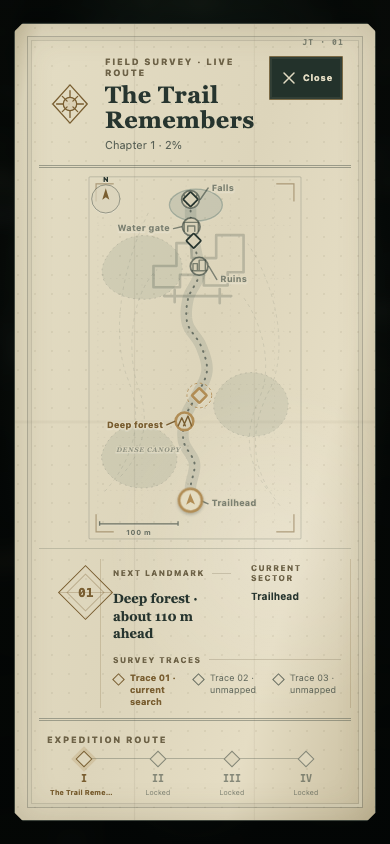
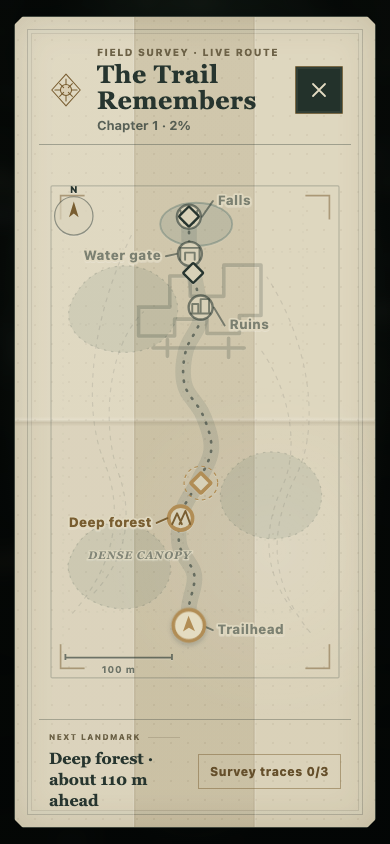
refine: simplify and deepen folded field map

diff --git a/src/ui.css b/src/ui.css
@@ -14,6 +14,7 @@
 
 * { box-sizing: border-box; }
 [hidden] { display: none !important; }
+.jt-visually-hidden { position: absolute !important; width: 1px; height: 1px; padding: 0; margin: -1px; overflow: hidden; clip: rect(0 0 0 0); white-space: nowrap; border: 0; }
 button { font: inherit; -webkit-tap-highlight-color: transparent; touch-action: manipulation; }
 #view { position: absolute; inset: 0; display: block; width: 100%; height: 100%; opacity: .01; transition: opacity 900ms var(--jt-ease); }
 #shell.is-scene-ready #view { opacity: 1; }
@@ -156,29 +157,31 @@ button { font: inherit; -webkit-tap-highlight-color: transparent; touch-action: 
 .jt-map__backdrop { position: absolute; inset: 0; background: radial-gradient(ellipse at 50% 42%, rgba(22,37,29,.88), rgba(2,5,4,.94) 72%); backdrop-filter: blur(8px) saturate(.7); animation: jt-map-fade 220ms var(--jt-ease); }
 .jt-map__sheet { position: relative; isolation: isolate; width: min(100%, 680px); max-height: 100%; overflow-x: hidden; overflow-y: auto; padding: 22px 24px 18px; border: 1px solid rgba(19,29,25,.78); background:
   radial-gradient(circle at 18% 21%, rgba(75,64,36,.07) 0 1px, transparent 1.4px) 0 0/17px 19px,
-  radial-gradient(circle at 72% 66%, rgba(255,255,255,.16), transparent 28%),
-  linear-gradient(105deg, #cfc6a8 0, #e3dcc3 5%, #ddd5bb 48%, #e5ddc4 74%, #c8bd9e 100%);
+  radial-gradient(circle at 72% 66%, rgba(255,255,255,.13), transparent 28%),
+  #d9d0b4;
   box-shadow: 0 32px 90px rgba(0,0,0,.68), 0 0 0 5px #17231d, 0 0 0 7px rgba(177,141,85,.38), inset 0 0 38px rgba(80,64,32,.2);
   clip-path: polygon(0 9px, 9px 0, calc(100% - 9px) 0, 100% 9px, 100% calc(100% - 9px), calc(100% - 9px) 100%, 9px 100%, 0 calc(100% - 9px));
   animation: jt-map-open 220ms var(--jt-ease);
 }
-.jt-map__sheet::before { content: ""; position: absolute; z-index: 1; inset: 0; background: linear-gradient(90deg, transparent 32.9%, rgba(67,54,31,.075) 33.2%, transparent 33.5%, transparent 66.2%, rgba(67,54,31,.065) 66.5%, transparent 66.8%), linear-gradient(transparent 49.7%, rgba(67,54,31,.055) 50%, transparent 50.3%); pointer-events: none; }
+.jt-map__sheet::before { content: ""; position: absolute; z-index: 1; inset: 0; background:
+  linear-gradient(180deg, rgba(255,255,255,.035) 0 49.35%, rgba(255,255,255,.17) 49.7%, rgba(66,49,25,.12) 50.05%, rgba(66,49,25,.025) 50.55% 100%),
+  linear-gradient(90deg, rgba(255,255,255,.16) 0 32.65%, rgba(255,255,255,.28) 32.9%, rgba(69,51,25,.16) 33.25%, rgba(69,51,25,.075) 33.65% 66.05%, rgba(69,51,25,.16) 66.4%, rgba(255,255,255,.25) 66.72%, rgba(255,255,255,.11) 67.05% 100%);
+  pointer-events: none;
+}
 .jt-map__sheet::after { content: ""; position: absolute; z-index: 0; inset: 12px; border: 1px solid rgba(42,52,45,.26); box-shadow: inset 0 0 0 3px rgba(216,209,184,.7), inset 0 0 0 4px rgba(42,52,45,.14); pointer-events: none; }
 .jt-map__cover { display: none; }
-.jt-map__folio { position: absolute; z-index: 3; right: 31px; top: 15px; color: rgba(39,53,47,.54); font: 700 8px/1 ui-monospace, SFMono-Regular, Menlo, monospace; letter-spacing: .14em; }
-.jt-map__header { position: relative; z-index: 2; display: flex; align-items: flex-start; justify-content: space-between; gap: 16px; min-height: 78px; padding: 10px 8px 14px; border-bottom: 3px double rgba(39,53,47,.38); }
+.jt-map__header { position: relative; z-index: 2; display: flex; align-items: center; justify-content: space-between; gap: 14px; min-height: 68px; padding: 7px 8px 11px; border-bottom: 1px solid rgba(39,53,47,.34); }
 .jt-map__title-block { display: flex; align-items: center; gap: 12px; min-width: 0; }
-.jt-map__crest { flex: 0 0 auto; width: 46px; height: 46px; color: #795e31; }
+.jt-map__crest { flex: 0 0 auto; width: 38px; height: 38px; color: #795e31; }
 .jt-map__crest svg { width: 100%; height: 100%; fill: none; stroke: currentColor; stroke-width: 1.35; stroke-linecap: round; stroke-linejoin: round; }
 .jt-map__crest circle { fill: rgba(177,141,85,.13); }
-.jt-map__eyebrow,.jt-map__footer-label { margin: 0 0 5px; color: #6d6247; font-size: 9px; font-weight: 800; letter-spacing: .18em; text-transform: uppercase; }
-.jt-map h2 { margin: 0; color: var(--jt-paper-ink); font-family: Georgia, "Songti SC", "Noto Serif CJK SC", serif; font-size: clamp(21px,6vw,30px); font-weight: 650; line-height: 1.08; letter-spacing: .02em; }
-.jt-map__subtitle { margin: 5px 0 0; color: rgba(39,53,47,.72); font-size: 11px; }
-.jt-map__close { flex: 0 0 auto; display: grid; grid-template-columns: 20px auto; align-items: center; gap: 4px; min-width: 68px; min-height: 44px; padding: 0 9px; color: #e2dbc2; border: 1px solid rgba(177,141,85,.62); border-radius: 1px; background: #23322b; box-shadow: inset 0 0 0 2px rgba(226,219,194,.08); }
-.jt-map__close svg { width: 20px; fill: none; stroke: currentColor; stroke-width: 1.8; stroke-linecap: round; }
-.jt-map__close span { font-size: 9px; font-weight: 750; letter-spacing: .08em; }
-.jt-map__survey { position: relative; z-index: 2; display: block; border-bottom: 3px double rgba(39,53,47,.36); }
-.jt-map__route { display: block; width: 100%; height: min(45vh,390px); min-height: 280px; filter: drop-shadow(0 1px rgba(255,255,255,.24)); }
+.jt-map__eyebrow { margin: 0 0 3px; color: #6d6247; font-size: 10px; font-weight: 800; letter-spacing: .14em; text-transform: uppercase; }
+.jt-map h2 { margin: 0; color: var(--jt-paper-ink); font-family: Georgia, "Songti SC", "Noto Serif CJK SC", serif; font-size: clamp(24px,6.4vw,32px); font-weight: 650; line-height: 1.05; letter-spacing: .02em; }
+.jt-map__subtitle { margin: 4px 0 0; color: rgba(39,53,47,.72); font-size: 13px; font-weight: 650; }
+.jt-map__close { flex: 0 0 auto; display: grid; place-items: center; width: 48px; min-width: 48px; height: 48px; padding: 0; color: #e2dbc2; border: 1px solid rgba(177,141,85,.62); border-radius: 1px; background: #23322b; box-shadow: inset 0 0 0 2px rgba(226,219,194,.08); }
+.jt-map__close svg { width: 24px; fill: none; stroke: currentColor; stroke-width: 1.8; stroke-linecap: round; }
+.jt-map__survey { position: relative; z-index: 2; display: block; }
+.jt-map__route { display: block; width: 100%; height: min(68dvh,590px); min-height: 330px; filter: drop-shadow(0 1px rgba(255,255,255,.24)); }
 .jt-map__page-frame { fill: none; stroke: rgba(39,53,47,.23); stroke-width: 1; }
 .jt-map__corner-mark { fill: none; stroke: rgba(121,94,49,.52); stroke-width: 1.4; }
 .jt-map__grid path,.jt-map__ridge,.jt-map__ruins path,.jt-map__route-corridor,.jt-map__route-base,.jt-map__route-progress { fill: none; stroke-linecap: round; stroke-linejoin: round; }
@@ -200,56 +203,23 @@ button { font: inherit; -webkit-tap-highlight-color: transparent; touch-action: 
 .jt-map__landmark.is-next { color: #795e31; }
 .jt-map__landmark.is-next circle { stroke: var(--jt-brass); stroke-width: 3; }
 .jt-map__landmark.is-current circle { fill: var(--jt-paper); stroke: var(--jt-brass); stroke-width: 3; }
-.jt-map__landmark-label { fill: currentColor; font-size: 10px; font-weight: 780; letter-spacing: .025em; paint-order: stroke; stroke: rgba(224,217,192,.94); stroke-width: 3px; stroke-linejoin: round; }
+.jt-map__landmark-label { fill: currentColor; font-size: 11px; font-weight: 780; letter-spacing: .025em; paint-order: stroke; stroke: rgba(224,217,192,.94); stroke-width: 3px; stroke-linejoin: round; }
 .jt-map__evidence { fill: var(--jt-paper); stroke: var(--jt-paper-ink); stroke-width: 2; }
 .jt-map__evidence.is-current { fill: var(--jt-paper); stroke: var(--jt-brass); stroke-width: 3; }
 .jt-map__evidence.is-recorded { fill: var(--jt-patina); stroke: var(--jt-paper-ink); }
 .jt-map__evidence-ring { fill: none; stroke: var(--jt-brass); stroke-width: 1; stroke-dasharray: 3 3; }
-.jt-map__feature-label { fill: rgba(39,53,47,.43); font-family: Georgia, "Songti SC", serif; font-size: 7.5px; font-weight: 700; font-style: italic; letter-spacing: .1em; paint-order: stroke; stroke: rgba(224,217,192,.8); stroke-width: 2px; }
+.jt-map__feature-label { fill: rgba(39,53,47,.5); font-family: Georgia, "Songti SC", serif; font-size: 9px; font-weight: 700; font-style: italic; letter-spacing: .08em; paint-order: stroke; stroke: rgba(224,217,192,.8); stroke-width: 2px; }
 .jt-map__compass circle { fill: rgba(216,209,184,.72); stroke: rgba(39,53,47,.46); stroke-width: 1; }
 .jt-map__compass path { fill: #795e31; }
 .jt-map__compass text { fill: var(--jt-paper-ink); font-size: 8px; font-weight: 850; }
 .jt-map__scale path { fill: none; stroke: rgba(39,53,47,.62); stroke-width: 1.5; }
 .jt-map__scale text { fill: rgba(39,53,47,.62); font-size: 8px; font-weight: 750; letter-spacing: .06em; }
-.jt-map__legend { position: relative; display: grid; grid-template-columns: minmax(0,1.35fr) minmax(90px,.65fr); column-gap: 20px; min-width: 0; padding: 14px 10px 10px 74px; border-top: 1px solid rgba(39,53,47,.18); }
-.jt-map__legend::before,.jt-map__legend::after { content: ""; position: absolute; top: 10px; bottom: 10px; width: 1px; background: rgba(121,94,49,.22); }
-.jt-map__legend::before { left: 61px; }
-.jt-map__legend::after { right: 0; }
-.jt-map__legend-seal { position: absolute; top: 24px; left: 27px; display: grid; place-items: center; width: 39px; height: 39px; color: #795e31; border: 1px solid currentColor; transform: rotate(45deg); }
-.jt-map__legend-seal::before { content: ""; position: absolute; inset: 5px; border: 1px solid rgba(121,94,49,.36); }
-.jt-map__legend-seal span { font: 750 13px/1 ui-monospace, SFMono-Regular, Menlo, monospace; transform: rotate(-45deg); }
-.jt-map__legend-seal i { position: absolute; width: 53px; height: 1px; background: rgba(121,94,49,.28); transform: rotate(-45deg); }
+.jt-map__brief { position: relative; display: flex; align-items: center; justify-content: space-between; gap: 18px; min-width: 0; min-height: 70px; padding: 12px 10px 8px; border-top: 1px solid rgba(39,53,47,.3); }
+.jt-map__next { min-width: 0; }
 .jt-map__legend-title { display: flex; align-items: center; gap: 7px; margin: 0 0 7px; color: #6d6247; font-size: 8px; font-weight: 800; letter-spacing: .16em; text-transform: uppercase; }
 .jt-map__legend-title::after { content: ""; flex: 1; height: 1px; background: rgba(109,98,71,.24); }
-.jt-map__objective { grid-column: 1; margin: 0 0 12px; font-family: Georgia, "Songti SC", serif; font-size: 13px; font-weight: 650; line-height: 1.35; }
-.jt-map__sector { grid-column: 2; grid-row: 2; margin: 0 0 12px; color: var(--jt-paper-ink); font-size: 10px; font-weight: 720; line-height: 1.35; }
-#map-objective-label { grid-column: 1; grid-row: 1; }
-#map-objective { grid-column: 1; grid-row: 2; }
-#map-sector-label { grid-column: 2; grid-row: 1; }
-#map-sector { grid-column: 2; grid-row: 2; }
-#map-traces-label { grid-column: 1 / -1; grid-row: 3; }
-.jt-map__evidence-list { grid-column: 1 / -1; display: grid; grid-template-columns: repeat(3,minmax(0,1fr)); gap: 8px 12px; margin: 0; padding: 0; list-style: none; }
-.jt-map__evidence-list li { position: relative; padding-left: 17px; color: rgba(39,53,47,.66); font-size: 9px; line-height: 1.35; }
-.jt-map__evidence-list li::before { content: ""; position: absolute; left: 1px; top: 3px; width: 7px; height: 7px; border: 1px solid currentColor; transform: rotate(45deg); }
-.jt-map__evidence-list li.is-current { color: #795e31; font-weight: 750; }
-.jt-map__evidence-list li.is-recorded { color: var(--jt-paper-ink); }
-.jt-map__evidence-list li.is-recorded::before { background: var(--jt-patina); }
-.jt-map__footer { position: relative; z-index: 2; padding: 13px 8px 1px; }
-.jt-map__chapters { display: grid; grid-template-columns: repeat(4,1fr); gap: 0; margin: 0; padding: 0; list-style: none; }
-.jt-map__chapters li { position: relative; min-width: 0; padding-top: 17px; color: rgba(39,53,47,.5); text-align: center; }
-.jt-map__chapters li::before { content: ""; position: absolute; z-index: 1; top: 3px; left: 50%; width: 10px; height: 10px; border: 1.5px solid currentColor; background: #ded6bc; transform: translateX(-50%) rotate(45deg); }
-.jt-map__chapters li::after { content: ""; position: absolute; top: 8px; right: 50%; width: 100%; height: 1px; background: rgba(39,53,47,.28); }
-.jt-map__chapters li:first-child::after { display: none; }
-.jt-map__chapters li.is-unlocked { color: var(--jt-paper-ink); }
-.jt-map__chapters li.is-current { color: #795e31; font-weight: 750; }
-.jt-map__chapters li.is-current::before { box-shadow: 0 0 0 3px rgba(177,141,85,.24); }
-.jt-map__chapters li.is-complete::before { background: var(--jt-patina); }
-.jt-map__chapters button { width: 100%; min-height: 34px; padding: 0 3px; color: inherit; border: 0; background: transparent; }
-.jt-map__chapters button:focus-visible { outline: 2px solid var(--jt-patina); outline-offset: 2px; }
-.jt-map__chapters button:disabled { opacity: 1; }
-.jt-map__chapters b,.jt-map__chapters span { display: block; overflow: hidden; text-overflow: ellipsis; white-space: nowrap; }
-.jt-map__chapters b { font: 700 10px/1.2 ui-monospace, SFMono-Regular, Menlo, monospace; }
-.jt-map__chapters span { margin-top: 3px; font-size: 7px; }
+.jt-map__objective { margin: 0; font-family: Georgia, "Songti SC", serif; font-size: 16px; font-weight: 650; line-height: 1.3; }
+.jt-map__trace-count { flex: 0 0 auto; margin: 0; padding: 9px 11px; color: #66502c; border: 1px solid rgba(121,94,49,.48); font-size: 12px; font-weight: 800; letter-spacing: .05em; white-space: nowrap; }
 
 .jt-panel { position: fixed; inset: 0; z-index: 25; display: grid; place-items: end center; padding: 24px 18px max(24px, env(safe-area-inset-bottom)); background: rgba(4,7,5,.35); backdrop-filter: blur(5px); }
 .jt-panel__content { width: min(100%, 420px); padding: 24px; border: 1px solid var(--jt-line); border-radius: 8px; background: var(--jt-surface); box-shadow: 0 22px 70px rgba(0,0,0,.4); }
@@ -303,22 +273,18 @@ button { font: inherit; -webkit-tap-highlight-color: transparent; touch-action: 
   #sleeping.is-ready .jt-sleeping__status { margin-top: 10px; }
   .jt-map { padding: max(6px, env(safe-area-inset-top)) 6px max(6px, env(safe-area-inset-bottom)); }
   .jt-map__sheet { padding: 12px; }
-  .jt-map__header { min-height: 62px; padding: 5px 3px 8px; }
+  .jt-map__header { min-height: 58px; padding: 4px 3px 7px; }
   .jt-map__title-block { gap: 7px; }
-  .jt-map__crest { width: 35px; height: 35px; }
-  .jt-map__folio { display: none; }
-  .jt-map__subtitle { display: none; }
-  .jt-map__route { height: min(43vh,285px); min-height: 244px; }
-  .jt-map__legend { column-gap: 10px; padding: 9px 3px 6px 52px; }
-  .jt-map__legend::before { left: 45px; }
-  .jt-map__legend-seal { top: 20px; left: 17px; width: 32px; height: 32px; }
-  .jt-map__legend-seal i { width: 42px; }
-  .jt-map__objective { margin-bottom: 8px; font-size: 10px; }
-  .jt-map__sector { margin-bottom: 8px; font-size: 9px; }
-  .jt-map__evidence-list { gap: 5px 7px; }
-  .jt-map__evidence-list li { padding-left: 13px; font-size: 7px; }
-  .jt-map__evidence-list li::before { width: 6px; height: 6px; }
-  .jt-map__footer { padding-top: 8px; }
+  .jt-map__crest { width: 32px; height: 32px; }
+  .jt-map h2 { font-size: 22px; }
+  .jt-map__eyebrow { font-size: 8px; }
+  .jt-map__subtitle { font-size: 11px; }
+  .jt-map__close { width: 44px; min-width: 44px; height: 44px; }
+  .jt-map__route { height: min(66dvh,385px); min-height: 310px; }
+  .jt-map__brief { min-height: 62px; gap: 8px; padding: 9px 4px 5px; }
+  .jt-map__legend-title { margin-bottom: 4px; font-size: 8px; }
+  .jt-map__objective { font-size: 15px; }
+  .jt-map__trace-count { padding: 8px 7px; font-size: 11px; }
 }
 @media (prefers-reduced-motion: reduce) {
   *,*::before,*::after { animation-duration: .01ms !important; animation-iteration-count: 1 !important; scroll-behavior: auto !important; }

diff --git a/src/main.js b/src/main.js
@@ -27,14 +27,10 @@ const ui = {
   mapCloseLabel: $('map-close-label'), mapRoute: $('map-route-base'),
   mapRouteCorridor: $('map-route-corridor'), mapRouteProgress: $('map-route-progress'), mapPlayer: $('map-player'),
   mapScaleLine: $('map-scale-line'), mapScaleLabel: $('map-scale-label'),
-  mapFolioNumber: $('map-folio-number'), mapSealNumber: $('map-seal-number'),
   mapEvidenceNodes: $('map-evidence-nodes'), mapLandmarkNodes: $('map-landmark-nodes'),
   mapCanopyLabel: $('map-canopy-label'),
   mapObjectiveLabel: $('map-objective-label'),
-  mapObjective: $('map-objective'), mapEvidenceList: $('map-evidence-list'),
-  mapSectorLabel: $('map-sector-label'), mapSector: $('map-sector'),
-  mapTracesLabel: $('map-traces-label'),
-  mapExpeditionLabel: $('map-expedition-label'), mapChapters: $('map-chapters'),
+  mapObjective: $('map-objective'), mapTraceCount: $('map-trace-count'),
   pausePanel: $('pause-panel'), pauseTitle: $('pause-title'), resume: $('resume-button'), trail: $('trail-button'),
   mode: $('mode-button'),
   complete: $('complete-panel'), completeTitle: $('complete-title'), completeTime: $('complete-time'),
@@ -73,9 +69,6 @@ ui.mapEyebrow.textContent = t('fieldMap');
 ui.mapCloseLabel.textContent = t('close');
 ui.mapClose.setAttribute('aria-label', t('closeMap'));
 ui.mapObjectiveLabel.textContent = t('currentObjective');
-ui.mapSectorLabel.textContent = t('currentSector');
-ui.mapTracesLabel.textContent = t('surveyTraces');
-ui.mapExpeditionLabel.textContent = t('expeditionRoute');
 ui.mapCanopyLabel.textContent = t('mapCanopy');
 ui.mapRoute.closest('svg').setAttribute('aria-label', t('mapAria'));
 const progressStore = new ProgressStore();
@@ -299,7 +292,6 @@ function renderLandmarks(trailT) {
 
   const distance = Math.max(0, Math.round((LANDMARK_T[next] - trailT) * game.trail.length / 5) * 5);
   ui.mapObjective.textContent = `${fullNames[next]} · ${t(distance > 0 ? 'distanceRemaining' : 'destinationReached', { n: distance })}`;
-  ui.mapSector.textContent = fullNames[current];
 }
 
 function renderMap() {
@@ -321,12 +313,10 @@ function renderMap() {
   ui.mapRouteProgress.style.strokeDasharray = `${(routeLength * relative).toFixed(2)} ${routeLength.toFixed(2)}`;
   ui.mapTitle.textContent = t(chapter.titleKey);
   ui.mapSubtitle.textContent = `${t('chapterLabel', { n: chapter.number })} · ${Math.round(trailT * 100)}%`;
-  ui.mapFolioNumber.textContent = String(chapter.number);
-  ui.mapSealNumber.textContent = String(chapter.number).padStart(2, '0');
   renderLandmarks(trailT);
 
   ui.mapEvidenceNodes.replaceChildren();
-  ui.mapEvidenceList.replaceChildren(...investigation.trackers.map((tracker, index) => {
+  investigation.trackers.forEach((tracker, index) => {
     const point = evidenceMapPoint(tracker.contract, index);
     const diamond = svgNode('rect');
     const isCurrent = index === investigation.activeIndex;
@@ -347,33 +337,9 @@ function renderMap() {
     }
     ui.mapEvidenceNodes.append(diamond);
 
-    const item = document.createElement('li');
-    item.className = tracker.recorded ? 'is-recorded' : isCurrent ? 'is-current' : '';
-    item.textContent = t('mapTrace', {
-      n: String(index + 1).padStart(2, '0'),
-      status: t(tracker.recorded ? 'traceRecorded' : isCurrent ? 'traceCurrent' : 'traceUnknown'),
-    });
-    return item;
-  }));
-
-  ui.mapChapters.replaceChildren(...CHAPTERS.map((item) => {
-    const unlocked = unlockAll || progressStore.value.unlocked.includes(item.id);
-    const chapterComplete = !!progressStore.value.completed[item.id];
-    const li = document.createElement('li');
-    li.className = [unlocked && 'is-unlocked', item.id === chapter.id && 'is-current', chapterComplete && 'is-complete'].filter(Boolean).join(' ');
-    const button = document.createElement('button');
-    button.type = 'button';
-    button.disabled = !unlocked || item.id === chapter.id;
-    button.innerHTML = `<b>${['I', 'II', 'III', 'IV'][item.number - 1]}</b><span>${unlocked ? t(item.titleKey) : t('locked')}</span>`;
-    button.setAttribute('aria-label', `${t('chapterLabel', { n: item.number })} · ${unlocked ? t(item.titleKey) : t('locked')}`);
-    if (unlocked && item.id !== chapter.id) button.addEventListener('click', () => {
-      const url = new URL(location.href);
-      url.searchParams.set('chapter', item.id);
-      location.assign(url);
-    });
-    li.append(button);
-    return li;
-  }));
+  });
+  const recorded = investigation.trackers.filter((tracker) => tracker.recorded).length;
+  ui.mapTraceCount.textContent = `${t('surveyTraces')} ${recorded}/${investigation.trackers.length}`;
 }
 
 function openMap() {

diff --git a/index.html b/index.html
@@ -204,7 +204,6 @@
     <div id="map-backdrop" class="jt-map__backdrop" aria-hidden="true"></div>
     <article class="jt-map__sheet">
       <span class="jt-map__cover" aria-hidden="true"></span>
-      <span class="jt-map__folio" aria-hidden="true">JT · 0<span id="map-folio-number">1</span></span>
       <header class="jt-map__header">
         <div class="jt-map__title-block">
           <span class="jt-map__crest" aria-hidden="true">
@@ -218,7 +217,7 @@
         </div>
         <button id="map-close" class="jt-map__close" type="button">
           <svg viewBox="0 0 24 24" aria-hidden="true"><path d="m6 6 12 12M18 6 6 18"/></svg>
-          <span id="map-close-label"></span>
+          <span id="map-close-label" class="jt-visually-hidden"></span>
         </button>
       </header>
       <div class="jt-map__survey">
@@ -244,20 +243,14 @@
           <g class="jt-map__scale" transform="translate(22 405)" aria-hidden="true"><path id="map-scale-line" d="M0 0v-5m0 3h58m0-3v5"/><text id="map-scale-label" x="29" y="11" text-anchor="middle">100 m</text></g>
           <text id="map-canopy-label" class="jt-map__feature-label" x="41" y="321"></text>
         </svg>
-        <aside class="jt-map__legend">
-          <div class="jt-map__legend-seal" aria-hidden="true"><span id="map-seal-number">01</span><i></i></div>
+        <aside class="jt-map__brief">
+          <div class="jt-map__next">
           <p id="map-objective-label" class="jt-map__legend-title"></p>
           <p id="map-objective" class="jt-map__objective"></p>
-          <p id="map-sector-label" class="jt-map__legend-title"></p>
-          <p id="map-sector" class="jt-map__sector"></p>
-          <p id="map-traces-label" class="jt-map__legend-title"></p>
-          <ul id="map-evidence-list" class="jt-map__evidence-list"></ul>
+          </div>
+          <p id="map-trace-count" class="jt-map__trace-count"></p>
         </aside>
       </div>
-      <footer class="jt-map__footer">
-        <p id="map-expedition-label" class="jt-map__footer-label"></p>
-        <ol id="map-chapters" class="jt-map__chapters"></ol>
-      </footer>
     </article>
   </section>
 

diff --git a/doc/visual.md b/doc/visual.md
@@ -66,11 +66,11 @@
 - 所有按钮触控目标至少 44×44 px；摇杆外环 112 px，内核 44 px，并增加 62% 步行/快走分界刻度。
 - 顶部调查牌：深墨绿半透明底、左侧章节徽记、右侧两行信息；第一行是地标名与路线百分比，第二行是细进度轨与线索 `n/3`。两端用直角括号和铜金小刻度建立仪器感。
 - 右上工具栏：地图、声音、暂停纵向排列在一条细框导轨内；激活状态使用氧化绿实心小标，不靠发光。
-- 地图面板：全屏深绿遮罩上展开一张暖灰野外测绘图；纸张只有均匀浅淡的三折压痕、纤维噪点、连续双线页框、自然切角与克制的植物学线描。路线占据主要绘图区，目标与线索整理在地图下方；保留铜色调查印章与页码，禁止中央书脊、上下中缝凹口、左右分页色差和任何暗示翻页的装饰。
+- 地图面板：全屏深绿遮罩上展开一张暖灰野外测绘图；路线绘图区占纸面约 `78–82%`，页头只保留章节标题、进度与关闭，页尾只保留一条下一地标说明和 `n/3` 线索计数。逐条线索文字、当前区域重复说明和 I–IV 章节轨全部移出地图。纸张由三块宽折面交替明暗，折线两侧有窄高光与投影，并叠加一条较弱的横折；纤维噪点、连续双线页框和自然切角继续保留。禁止中央书脊、上下中缝凹口、左右分页和任何暗示翻页的装饰。
 - 地图路线：由当前章节真实路径采样点按统一米制比例投影，保持真实弯道方向和横向位移；玩家与证据使用真实世界坐标。路线不为了填满纸页而改成装饰性 S 曲线。玩家是可旋转的铜金方向针，线索是菱形测绘钉，已记录填充、未发现空心、当前目标带双圈。
 - 地图参照层：用低对比等高线、林冠簇、石灰遗迹平面与蓝灰终点水池建立地貌；用 5 个带编号/图形的地标节点和场景同名标签建立“画面 ↔ 地图”对应。没有真实世界坐标的数据不画成具体水道；地貌低于路线，地标高于线索，玩家针最高。
-- 地图读数：左上角北针、下方 `0–100 m` 比例尺、当前分区、下一地标与约剩余距离。北向固定为世界 `-Z`；比例尺与路线使用同一投影比例。朝向针根据玩家真实视角旋转，不伪装成 GPS 定位精度。
-- 地图下方列出当前目标和章节总览；章节使用 I–IV 节点串联，锁定、可进入和完成同时以线型与文字表达。地图不显示精准 GPS 坐标，保留探索感。
+- 地图读数：左上角北针、下方 `0–100 m` 比例尺、下一地标与约剩余距离。北向固定为世界 `-Z`；比例尺与路线使用同一投影比例。朝向针根据玩家真实视角旋转，不伪装成 GPS 定位精度。
+- 地图下方只显示当前目标与线索总数；章节选择继续由入口的 I–IV 导航承担。地图不显示精准 GPS 坐标，保留探索感。
 - 信息层级：常驻 HUD 只回答“我在哪一章、走了多远、找到多少、工具在哪”；任务提示短暂出现；完整线索说明只在记录瞬间出现；地图承接详细路线信息。
 - 入口首帧完成后直接展示真实雨林，标题与细边框文字动作退居底部暗部；不使用视频播放三角或遮住道路的居中卡片。
 - 构建阶段按钮禁用并显示真实阶段；场景就绪后按钮文案保持“进入雨林”，状态提示改为“轻触，走进雨林”。
@@ -103,7 +103,7 @@
 - 用户参考一：提炼顶部地区状态牌、底部工具入口和低多边形场景之上的高对比信息层；不复制货币、战斗技能或沙漠色调。
 - 用户参考二：提炼直角括号、模块化工具槽与明确选中状态；不复制邀请、治疗或背包战斗逻辑。
 - 用户参考三：提炼折叠纸地图、节点路线、当前位置针和“发现目标”的旅程感；改造成单章实时测绘地图，不做静态关卡选择海报。
-- 用户参考四：第二张作为唯一结构参考，提炼单张折叠地图、路线主导、节点挂接和底部目标说明；第一张只保留细线页框与调查印章，不采用书本形态。地图在移动端保持完整绘图区，不复制宗教符号、技能树、车辆、人物、红黑配色或原游戏的具体纹样。
+- 用户参考四：第二张作为唯一结构参考，提炼单张折叠地图、路线主导、节点挂接、底部单条目标说明，以及由宽折面交替受光形成的纸张体积；第一张只保留细线页框，不采用书本形态。地图在移动端保持完整绘图区，不复制宗教符号、技能树、车辆、人物、红黑配色或原游戏的具体纹样。
 
 ## 10. Anti-patterns
 
@@ -124,7 +124,7 @@
 - 窄屏：320×568 无横向溢出，按钮至少 44×44，顶部与底部安全区不冲突。
 - 四章：每章在首次接近时先读到宏观地标，再读到中观方向，最后读到微观证据；不能依赖 UI 才理解目标区域。
 - 观察：390×844 与 320×568 均能看清“附近—对准—完成”三态；观察环不与幽灵手势、摇杆、跳跃和顶部操作重叠。
-- 地图：两种尺寸均显示由本章真实世界坐标投影的路线、玩家位置与朝向、3 条线索、5 个同名地标、地貌参照、下一地标距离和 I–IV 章节轨；装帧、文字和标签在 320×568 不互相遮挡，打开时世界暂停、关闭后原地继续。
+- 地图：两种尺寸均显示由本章真实世界坐标投影的路线、玩家位置与朝向、3 条线索节点、5 个同名地标、地貌参照、下一地标距离和线索总数；装帧、文字和标签在 320×568 不互相遮挡，打开时世界暂停、关闭后原地继续。
 - 章节选择：320×568 可同时看到全部 4 个编号槽，锁定和当前状态清晰；列表项使用点击而不是触碰触发。
 - 调查模式：随机目标、提示强度和结算记录在两种语言下不溢出，熟练调查不改变场景艺术方向。
 - 性能：每次只存在一个章节 WebGL 世界；low 档无新增全屏 pass，第二章倒影不触发完整镜面重渲染。
@@ -166,7 +166,7 @@
 ### Map
 
 - 玩家问题：我走到哪里、下一条证据大致在哪、整段调查还剩多少？
-- 打开后暂停场景、音频和观察计时；折叠纸路线显示实时玩家针、3 条线索状态、5 个真实地标、林冠/遗迹/终点水池、下一地标距离和四章解锁轨。
+- 打开后暂停场景、音频和观察计时；折叠纸路线显示实时玩家针、3 条线索节点、5 个真实地标、林冠/遗迹/终点水池、下一地标距离和线索总数；章节解锁状态留在入口导航。
 - 地图不显示精确米数或导航箭头；关闭按钮、遮罩、M 与 Escape 均可返回探索，位置和视角保持不变。
 
 ### Chapter select

diff --git a/_qa/ui/REPORT.md b/_qa/ui/REPORT.md
@@ -8,8 +8,8 @@
 | Entry frozen | `platform-layout-entry-frozen-390x844.png` | `platform-layout-entry-frozen-reduced-motion-320x568.png` | Pass; `running=false`, clear final frame |
 | Gameplay handoff | `platform-layout-gameplay-after-entry-390x844.png` | Completion capture also verifies short control-safe layout | Pass; `running=true`, HUD visible |
 | Field instrument HUD | `platform-layout-field-hud-390x844.png` | `platform-layout-field-hud-320x568.png` | Pass; chapter, landmark, route, evidence and tool rail remain readable without covering the trail |
-| Live field map | `platform-layout-field-map-390x844.png` | `platform-layout-field-map-320x568.png` | Pass; fold-out survey sheet, real sampled route/position/heading, five landmarks, terrain references, three evidence states and chapter rail; paused, no overflow |
-| Progressed field map | `platform-layout-field-map-ruins-390x844.png` | narrow map uses the same responsive SVG | Pass; at `t=0.78`, sector becomes Ruins approach, next landmark becomes Water gate (~20 m), player moves to the real northern ruins position |
+| Live field map | `platform-layout-field-map-390x844.png` | `platform-layout-field-map-320x568.png` | Pass; map occupies the sheet, real sampled route/position/heading, five landmarks, terrain references, three evidence nodes, one objective and one trace count; paused, no overflow |
+| Progressed field map | `platform-layout-field-map-ruins-390x844.png` | narrow map uses the same responsive SVG | Pass; at `t=0.78`, next landmark becomes Water gate (~20 m), the traced route changes to brass and the player moves to the real northern ruins position |
 | First trace nearby | `platform-layout-clue-nearby-390x844.png` | — | Pass; target range active, observation not auto-completed |
 | First trace guided | `platform-layout-clue-guided-390x844.png` | — | Pass; after 4.5 s, outer notch points toward the target and copy names the metal-ringed stone |
 | First trace alloy | `platform-layout-clue-alloy-390x844.png` | — | Pass; ancient alloy ring and oxidation seam are visible beside, not under, the centre reticle |
@@ -24,7 +24,7 @@
 | Pause | `platform-layout-pause-390x844.png` | Panel width is fluid with 18 px side inset | Pass |
 | Completion first pass | `platform-layout-complete-first-pass-390x844.png` | `platform-layout-complete-first-pass-320x568.png` | P1 found |
 | Completion recheck | `platform-layout-complete-390x844.png` | `platform-layout-complete-320x568.png` | Pass |
-| External guest | `external-guest-entry-preview-motion-390x844.png` | — | Pass; managed CTA remains usable over live entry |
+| External guest | `external-guest-entry-preview-motion-390x844.png`, `external-guest-field-map-390x844.png` | — | Pass; managed CTA remains visible and the map route, close control and objective remain usable beneath the external-only overlay |
 
 ## Findings and fixes
 
@@ -73,6 +73,22 @@
 - Impact: the surface implied a page-turning function that does not exist and competed visually with the true route running near the centre.
 - Fix: removed the centre spine, centre notches and page-to-page colour split. The paper now has two equally light vertical fold marks plus one shallow horizontal fold, matching a single field map.
 - Recheck: matched 390×844 and 320×568 captures retain the continuous outer frame and complete route without a dark line underneath it.
+
+### P1 — Map information density forced important text too small
+
+- Evidence: the user capture from commit `c9da7b5` and the matched field-map captures.
+- Observation: current sector, next landmark, three textual trace states and the four-chapter rail repeated information already available in the scene, HUD and entry screen. Utility copy fell to 7–10 px on the narrow viewport.
+- Impact: the eye had no clear order and the map felt like a report dashboard instead of a quick orientation tool.
+- Fix: removed the repeated sector, per-trace text list and chapter rail. The page now answers only position, route, next landmark and total traces; the route drawing receives roughly 80% of the sheet, the objective is 15–16 px and the trace counter is 11–12 px.
+- Recheck: matched 390×844 and 320×568 captures show one compact footer band, no horizontal or document overflow, five landmark nodes, three evidence nodes and controls at least 44 px.
+
+### P1 — Fold marks had no broad light-facing surfaces
+
+- Evidence: the user capture from commit `c9da7b5`.
+- Observation: two low-opacity lines described crease positions, but the paper on both sides had nearly the same value.
+- Impact: the sheet read as one flat panel rather than a field map that had been folded and opened.
+- Fix: rebuilt the material as three broad vertical facets with alternating light exposure, a narrow highlight/shadow pair at each valley/ridge and a weaker horizontal fold. The facets affect the whole paper surface while the border stays continuous, so no crease reads as a book spine.
+- Recheck: both target captures visibly preserve the light–dark–light panel rhythm through the header, route and footer; the horizontal fold remains subordinate to route information.
 
 ### P1 — Upper landmark labels overlapped
 

diff --git a/doc/requirements.md b/doc/requirements.md
@@ -33,7 +33,7 @@
 - 入口仍先展示真实章节场景，完成短镜头观察后停止 RAF；点击只接管控制并解锁音频。
 - HUD 使用“野外调查仪器”语言：暗叶绿仪表板、暖白纸张、铜金刻度、氧化绿状态；功能图标全部使用同一套 2px 描边 SVG，禁止 Emoji。
 - 顶部调查牌同时呈现章节编号、地标、路线百分比与线索 `n/3`；右上工具栏提供地图、声音和暂停，均为至少 `44×44 px` 的真实功能按钮。
-- 地图为暂停式单张折叠测绘图：纸面只有均匀、浅淡的折叠压痕，不使用中央书脊、左右分页色差或模拟翻页缺口；显示当前章节路线、玩家实时位置与朝向、3 条证据的未发现/当前/已记录状态、5 个真实地标节点、全四章解锁状态；关闭后回到原位置继续游戏。
+- 地图为暂停式单张折叠测绘图：纸面由三块宽折面交替受光，折线两侧同时有窄高光与阴影，但不使用中央书脊、左右分页或模拟翻页缺口。页面只显示当前章节路线、玩家实时位置与朝向、3 条证据节点、5 个真实地标、一个线索总数和一条“下一地标”说明；章节切换与逐条线索文字不进入地图；关闭后回到原位置继续游戏。
 - 地图路线必须由当前章节 `Trail.samples` 的世界坐标按统一米制比例投影；玩家与证据使用各自真实 `x/z` 坐标，不得再投到固定示意曲线上。地图提供可与场景互证的深林密区、遗迹基座、终点水池、比例尺，以及“下一地标 + 约剩余米数”。五个地标沿用 HUD 的章节地标名称与实际进度阈值 `0.02 / 0.27 / 0.74 / 0.86 / 0.955`，不得使用无语义的装饰点代替。
 - 章节结算退居底部安全区，保留大型地标继续可观察，不使用遮满画面的结果卡。
 - 原作没有可替换的照片或文字输入，不强行加入玩家头像或用户名。

diff --git a/doc/technical.md b/doc/technical.md
@@ -69,7 +69,7 @@
 
 折叠地图不创建第二套 Three.js 场景。`src/main.js` 在打开地图时读取当前章节 `Trail.samples`，每 8 个采样点取一点，在固定 SVG 画框内用统一米制比例投影真实 `x/z`；世界 `-Z` 固定朝北。路线底线、已走路线和通行带共用这条动态 path。玩家使用 `walker.pos.x/z`，证据优先使用 `observationAnchors` 的真实坐标，5 个地标使用 `Trail.pointAt()` 与 HUD 相同的 `0.02 / 0.27 / 0.74 / 0.86 / 0.955` 阈值。方向针将相机 yaw 与世界/纸面路径切线组合；下一地标距离由真实 `Trail.length × 进度差` 估算；100 m 比例尺与路线使用相同缩放。林冠区、遗迹平面、水池、网格和等高线仍是低对比语义参照，不代表逐棵植被或逐块地形测绘。地图 DOM 只在打开时更新，关闭后没有逐帧开销。
 
-`Ambience.playClueHint()` 使用等功率 `PannerNode` 从证据世界位置播放短促双音，第三章因此天然支持左右方向比较；静音时 UI 外缘方位刻度提供等价视觉信息。地图纸面由 CSS 生成两条等权竖向折痕和一条浅横折痕，没有书脊或分页 DOM。所有 HUD、面板和章节按钮在 320×568 保持无溢出，触控动作至少 44×44 px。
+`Ambience.playClueHint()` 使用等功率 `PannerNode` 从证据世界位置播放短促双音，第三章因此天然支持左右方向比较；静音时 UI 外缘方位刻度提供等价视觉信息。地图 DOM 只保留紧凑页头、主 SVG 和“下一地标 + n/3”页尾；章节导航仍由入口负责。纸面由 CSS 叠加三块宽幅明暗折面、两组窄高光/投影与一条较弱横折，没有书脊或分页 DOM。所有 HUD、面板和章节按钮在 320×568 保持无溢出，触控动作至少 44×44 px。
 
 ## 4. 扩展点
 
